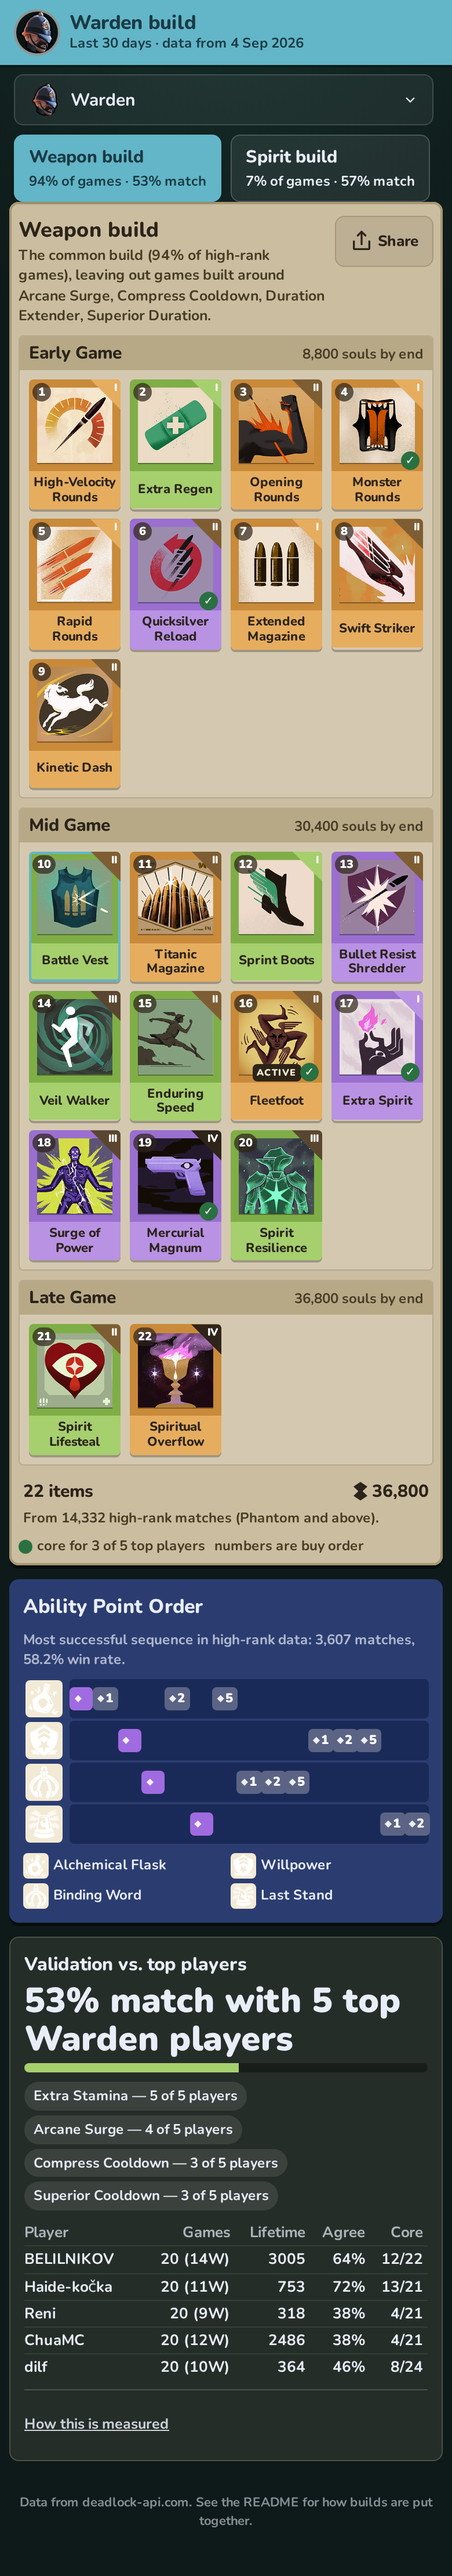
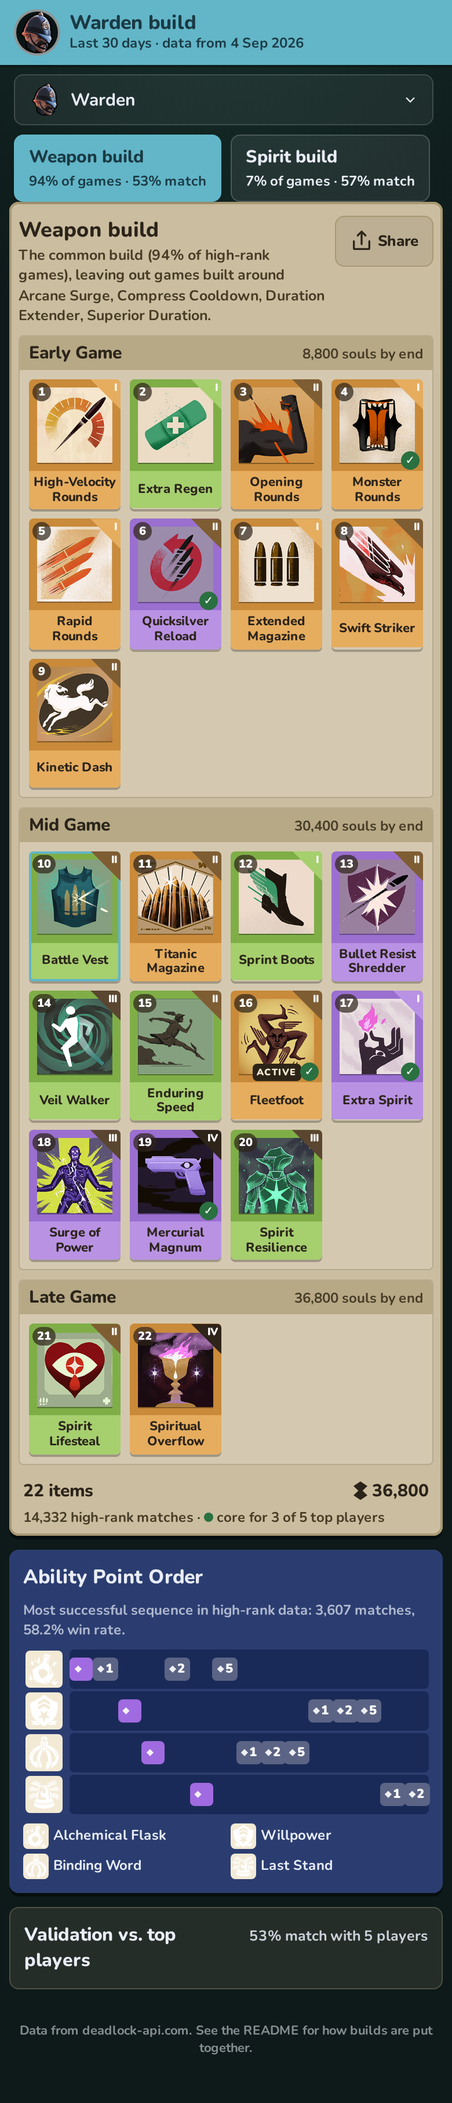
Trim desktop chrome, collapse validation panel to save room for the build
Header and hero-picker grid are smaller on desktop, the footer is hidden
there, and source/core-player text is one line instead of two. The
validation-vs-top-players panel is now a closed-by-default disclosure
(percentage still shown in its header) so the board and ability point
order — the parts people actually came for — get the space instead.

Claude-Session: https://claude.ai/code/session_01Jh4j1d1CHqXpRynNa3PhGU

diff --git a/src/components/BuildView.tsx b/src/components/BuildView.tsx
@@ -151,17 +151,15 @@ export function BuildView({
             </div>
             <div className="source">
               {build.population.kind === 'top'
-                ? `From ${build.population.matches.toLocaleString()} high-rank matches (Phantom and above).`
-                : `From ${build.population.matches.toLocaleString()} matches, all ranks (not enough high-rank games for this hero).`}
-            </div>
-            {hasCore && (
-              <div className="legend">
-                <span>
+                ? `${build.population.matches.toLocaleString()} high-rank matches`
+                : `${build.population.matches.toLocaleString()} matches, all ranks`}
+              {hasCore && (
+                <>
+                  {' · '}
                   <i className="legend-dot-core" /> core for {reps === 1 ? `${panel!.players[0].set.player}` : `${need} of ${reps} top players`}
-                </span>
-                <span>numbers are buy order</span>
-              </div>
-            )}
+                </>
+              )}
+            </div>
           </div>
         </div>
 
@@ -207,63 +205,67 @@ export function BuildView({
           </div>
 
           {panel && reps > 0 && (
-            <div className="panel">
-              <h2>Validation vs. top players</h2>
-              <div className="panel-summary">
-                <div className="big">
-                  {(panel.agreement * 100).toFixed(0)}% match with {reps} top {heroName} {reps === 1 ? 'player' : 'players'}
-                </div>
-                <div className="meter">
-                  <div style={{ width: `${panel.agreement * 100}%` }} />
-                </div>
-                {panel.missingConsensus.length > 0 && (
-                  <div className="chips" style={{ marginTop: 8 }}>
-                    {panel.missingConsensus.map((c) => (
-                      <span className="chip" key={c.item.id} title={`in ${(c.frequency * 100).toFixed(0)}% of their games on average`}>
-                        {c.item.name} — {c.reps} of {reps} players
-                      </span>
-                    ))}
+            <Collapsible className="panel">
+              <CollapsibleTrigger className="panel-trigger">
+                <h2>Validation vs. top players</h2>
+                <span className="panel-trigger-stat">
+                  {(panel.agreement * 100).toFixed(0)}% match with {reps} {reps === 1 ? 'player' : 'players'}
+                </span>
+              </CollapsibleTrigger>
+              <CollapsibleContent>
+                <div className="panel-summary">
+                  <div className="meter">
+                    <div style={{ width: `${panel.agreement * 100}%` }} />
                   </div>
-                )}
-              </div>
-              <div style={{ overflowX: 'auto', marginTop: 8 }}>
-                <table className="panel-table">
-                  <thead>
-                    <tr>
-                      <th>Player</th>
-                      <th title="matches in the sample (wins)">Games</th>
-                      <th title="lifetime matches on this hero">Lifetime</th>
-                      <th>Agree</th>
-                      <th title="core items in build / core items">Core</th>
-                    </tr>
-                  </thead>
-                  <tbody>
-                    {panel.players.map((p) => (
-                      <tr key={p.set.account_id}>
-                        <td>{p.set.player}</td>
-                        <td>
-                          {p.core.matches} ({p.core.wins}W)
-                        </td>
-                        <td>{p.set.selection?.total_hero_matches ?? '—'}</td>
-                        <td>{(p.validation.agreement * 100).toFixed(0)}%</td>
-                        <td>
-                          {p.validation.sharedCount}/{p.core.core.length}
-                        </td>
+                  {panel.missingConsensus.length > 0 && (
+                    <div className="chips" style={{ marginTop: 8 }}>
+                      {panel.missingConsensus.map((c) => (
+                        <span className="chip" key={c.item.id} title={`in ${(c.frequency * 100).toFixed(0)}% of their games on average`}>
+                          {c.item.name} — {c.reps} of {reps} players
+                        </span>
+                      ))}
+                    </div>
+                  )}
+                </div>
+                <div style={{ overflowX: 'auto', marginTop: 8 }}>
+                  <table className="panel-table">
+                    <thead>
+                      <tr>
+                        <th>Player</th>
+                        <th title="matches in the sample (wins)">Games</th>
+                        <th title="lifetime matches on this hero">Lifetime</th>
+                        <th>Agree</th>
+                        <th title="core items in build / core items">Core</th>
                       </tr>
-                    ))}
-                  </tbody>
-                </table>
-              </div>
-              <Collapsible className="disclosure">
-                <CollapsibleTrigger className="disclosure-trigger">How this is measured</CollapsibleTrigger>
-                <CollapsibleContent className="disclosure-content">
-                  A player's core set = items bought in 30% or more of their sampled matchmaking games (wins count 1.5× as much); items bought less often are
-                  one-off experiments and are left out. Match percentage is the average over players
-                  {reps > 1 ? ', weighted by how representative each player is' : ''}. None of this data is used to build the recommendation itself — it only
-                  checks the result afterward.
-                </CollapsibleContent>
-              </Collapsible>
-            </div>
+                    </thead>
+                    <tbody>
+                      {panel.players.map((p) => (
+                        <tr key={p.set.account_id}>
+                          <td>{p.set.player}</td>
+                          <td>
+                            {p.core.matches} ({p.core.wins}W)
+                          </td>
+                          <td>{p.set.selection?.total_hero_matches ?? '—'}</td>
+                          <td>{(p.validation.agreement * 100).toFixed(0)}%</td>
+                          <td>
+                            {p.validation.sharedCount}/{p.core.core.length}
+                          </td>
+                        </tr>
+                      ))}
+                    </tbody>
+                  </table>
+                </div>
+                <Collapsible className="disclosure">
+                  <CollapsibleTrigger className="disclosure-trigger">How this is measured</CollapsibleTrigger>
+                  <CollapsibleContent className="disclosure-content">
+                    A player's core set = items bought in 30% or more of their sampled matchmaking games (wins count 1.5× as much); items bought less often are
+                    one-off experiments and are left out. Match percentage is the average over players
+                    {reps > 1 ? ', weighted by how representative each player is' : ''}. None of this data is used to build the recommendation itself — it only
+                    checks the result afterward.
+                  </CollapsibleContent>
+                </Collapsible>
+              </CollapsibleContent>
+            </Collapsible>
           )}
         </div>
       </div>

diff --git a/src/index.css b/src/index.css
@@ -574,30 +574,13 @@ h3 {
   font-size: 12px;
   color: var(--ink-soft);
 }
-.legend {
-  display: flex;
-  flex-wrap: wrap;
-  gap: 8px;
-  margin-top: 8px;
-  font-size: 12px;
-  color: var(--ink-soft);
-}
-.legend span {
-  display: inline-flex;
-  align-items: center;
-  gap: 4px;
-}
-.legend i {
-  width: 12px;
-  height: 12px;
-  border-radius: 50%;
-  display: inline-block;
-}
 .legend-dot-core {
-  width: 12px;
-  height: 12px;
+  width: 8px;
+  height: 8px;
   border-radius: 50%;
   display: inline-block;
+  vertical-align: middle;
+  margin-bottom: 2px;
   background: var(--good);
 }
 
@@ -698,6 +681,24 @@ h3 {
   font-size: 16px;
   margin-bottom: 4px;
 }
+.panel-trigger {
+  display: flex;
+  align-items: baseline;
+  justify-content: space-between;
+  gap: 8px;
+  width: 100%;
+  text-align: left;
+  min-height: 44px;
+}
+.panel-trigger h2 {
+  margin-bottom: 0;
+}
+.panel-trigger-stat {
+  font-size: 12.5px;
+  font-weight: 700;
+  opacity: 0.85;
+  white-space: nowrap;
+}
 .panel .muted {
   font-size: 12px;
   opacity: 0.7;
@@ -751,6 +752,7 @@ h3 {
   text-align: right;
 }
 .panel-summary {
+  margin-top: 8px;
   margin-bottom: 4px;
 }
 .disclosure {
@@ -1001,7 +1003,17 @@ footer {
   }
   .hero-picker-desktop .hero-grid {
     grid-template-columns: repeat(auto-fill, minmax(88px, 1fr));
-    max-height: 140px;
+    max-height: 92px;
+  }
+  .app-header {
+    padding: 4px 12px;
+  }
+  .app-header img {
+    width: 32px;
+    height: 32px;
+  }
+  footer {
+    display: none;
   }
   .layout {
     display: grid;
